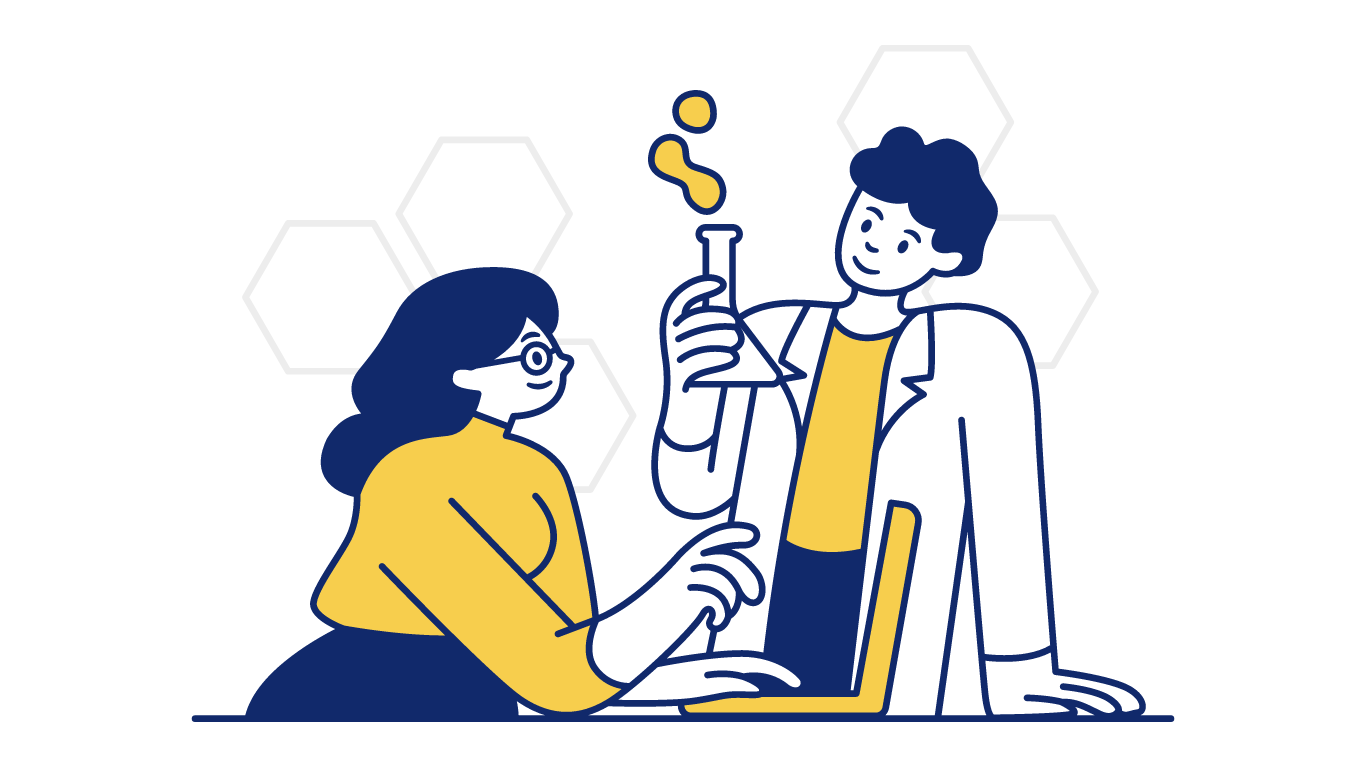
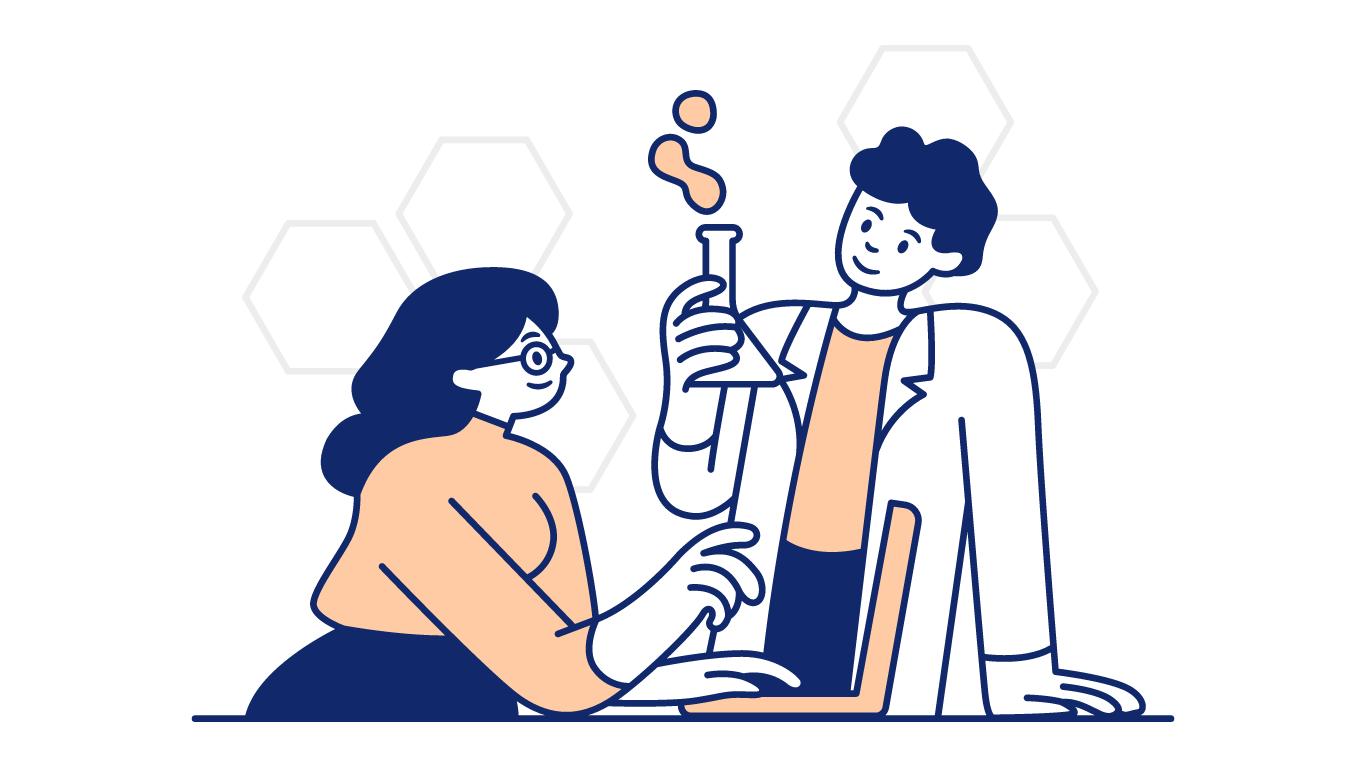
update home page and fix session error

Changed region(s): [[0.2152, 0.5312, 0.4612, 0.9375], [0.4919, 0.4375, 0.6764, 0.9375], [0.4612, 0.125, 0.5227, 0.2812]]

diff --git a/project/templates/index.html b/project/templates/index.html
@@ -102,13 +102,14 @@
 
 
             <!--INNER DIV 3 for the submit button-->
-            <div class="row pt-5">
+            <div class="row p-5">
 
                 <div class="form-group d-flex justify-content-center">
 
                     <button type="submit" 
                         class="btn btn-primary"
-                        style="width:auto">
+                        style="width:auto"
+                        data-aos="fade-up">
                         Find a Lab
                     </button>
 
@@ -124,21 +125,21 @@
 
 
 
-<div style="background-image:linear-gradient(white, #FFDB57);">
+<div style="background-image:linear-gradient(white, #ffcba4);">
 
     <div class="container py-5">
-        <div class="row text-center">
+        <div class="row text-center pt-4">
             <h1 style="color: #11296b">How It Works</h1>
         </div>
     </div>
 
-    <div class="container">
+    <div class="container pb-4">
         <div class="row pb-5 padded" data-aos="fade-up" style="display: flex;">
             <div class="col-sm-6 col-md-3 text-center spaced" data-aos="fade-up">
                 <div class="section section_head mb-3"><h3 style="color: #11296b">Select a Test</h3></div>
                 <div class="section section_icon"><i class="fa-solid fa-flask-vial" style="font-size: 75px; color: #11296b;"></i></div>
                 <div class="section section_text">
-                    <p style="color: #11296b">Choose from thousands of lab tests.</p>
+                    <p style="color: #11296b">Choose from our library of lab tests.</p>
                 </div>
             </div>
 
@@ -173,29 +174,37 @@
 
 
 
+<div style="background-image:linear-gradient(#1e96fc, #11296b);">
+    <div class="container py-5">
+        <div class="row mb-3 py-4">   
+            <div class="col-6 align-items-center d-flex">
+                <div class="text-center">
+                    <img src='/static/build_website.png' id="build_website">
+                </div>
+            </div>
 
 
-
-<div class="container my-5">
-
-    <div class="row section-with-background" data-aos="fade-up" style="height: 350px">
-
-        <div class="col-md-12">
-
-            <h1 class="py-3">Hundreds of Analytical Experts</h1>
-
-            <a class="btn btn-primary" 
-            href="#" role="button"
-            style="width:auto">
-            
-            Find Yours
-            </a>
-
+            <div class="col-6 align-items-center d-flex">
+                <div class="row">
+                    <div class="col align-items-center d-flex">
+                        <div class="text-center">
+                            <h1 class="mb-4" style="color:#ededed">The Most Comprehensive Lab Service Marketplace</h1>
+                            <p class="mb-4" style="color:#ededed">Our website is dedicated to providing a user-friendly 
+                                platform for customers to conveniently search for and book lab services from 
+                                reputable providers nationwide.</p>
+                            <a href="{{ url_for('views.about') }}">
+                                <button type="button" class="btn btn-primary" data-aos="fade-up">Learn More</button>
+                            </a>                        
+                        </div>
+                    </div>
+                </div>
+            </div>
         </div>
-
     </div>
-
 </div>
+
+
+
 
 
 <script src="https://cdn.jsdelivr.net/npm/cookieconsent@3/build/cookieconsent.min.js" data-cfasync="false"></script>
@@ -218,9 +227,6 @@ window.cookieconsent.initialise({
 });
 </script>
 
-
-<br><br><br><br>
-<br><br><br><br>
 
 {% endblock %}
 

diff --git a/project/static/css/main.css b/project/static/css/main.css
@@ -4,6 +4,10 @@ ROYAL BLUE: #1E96FC
 GRAY-WHITE: #EDEDED
 LIGHTER YELLOW: #FFDB57
 DARKER YELLOW: #FFCB05
+
+SWAP YELLOW FOR PEACH:
+MELON: #F6A192
+PEACH: #FFCBA4
 */
 
 .wrapper {
@@ -55,14 +59,14 @@ p, .nav-link, .btn-primary, .footer,
 
 
 .btn-primary {
-  background-color: #eace5f;
+  background-color: #ffcba4;
   border-color: black;
   color: black;
 }
 
 .btn-primary:hover {
-  background-color: #11296B;
-  border-color: #eace5f;
+  background-color: #11296b;
+  border-color: #ffcba4;
   color:white;
 }
 
@@ -109,6 +113,11 @@ p, .nav-link, .btn-primary, .footer,
     max-width: 100%;
     max-height: 100%;
   }
+
+  #build_website {
+    width: 100px;
+    height: auto;
+  }
 }
 
 
@@ -122,6 +131,11 @@ p, .nav-link, .btn-primary, .footer,
     max-width: 100%;
     max-height: 100%;
   }
+
+  #build_website {
+    width: 200px;
+    height: auto;
+  }
 }
 
 /*medium screen*/
@@ -134,6 +148,11 @@ p, .nav-link, .btn-primary, .footer,
     max-width: 100%;
     max-height: 100%;
   }
+
+  #build_website {
+    width: 300px;
+    height: auto;
+  }
 }
 
 
@@ -145,6 +164,11 @@ p, .nav-link, .btn-primary, .footer,
 
   #lab_techs {
     width: 500px;
+    height: auto;
+  }
+
+  #build_website {
+    width: 400px;
     height: auto;
   }
 }

diff --git a/project/views.py b/project/views.py
@@ -35,8 +35,8 @@ def index():
 
 
     else:
-        with db.session() as session:
-            test_names = session.query(tests).all()
+        with db.session() as db_session:
+            test_names = db_session.query(tests).all()
 
         date_choice = datetime.datetime.now().strftime("%Y-%m-%d")
 
@@ -61,12 +61,18 @@ def lab_function():
 
     else:
         selected_test = session.get('selected_test')
-        row_in_tests_table = tests.query.filter(tests.name == selected_test).first()
-        id_in_tests_table = row_in_tests_table.id
-        rows_in_labs_tests_table = labs_tests.query.filter(labs_tests.test_id == id_in_tests_table).all()
+        
+        with db.session() as db_session:
+            row_in_tests_table = db_session.query(tests) \
+                .filter(tests.name == selected_test) \
+                .first()
+            id_in_tests_table = row_in_tests_table.id
+            rows_in_labs_tests_table = db_session.query(labs_tests) \
+                .filter(labs_tests.test_id == id_in_tests_table) \
+                .all()
 
-        #change this to only query labs that can perform that test
-        lab_query = labs.query.all()
+            # Change this to only query labs that can perform that test
+            lab_query = db_session.query(labs).all()
 
         return render_template('labs.html', 
             lab_query = lab_query, 
